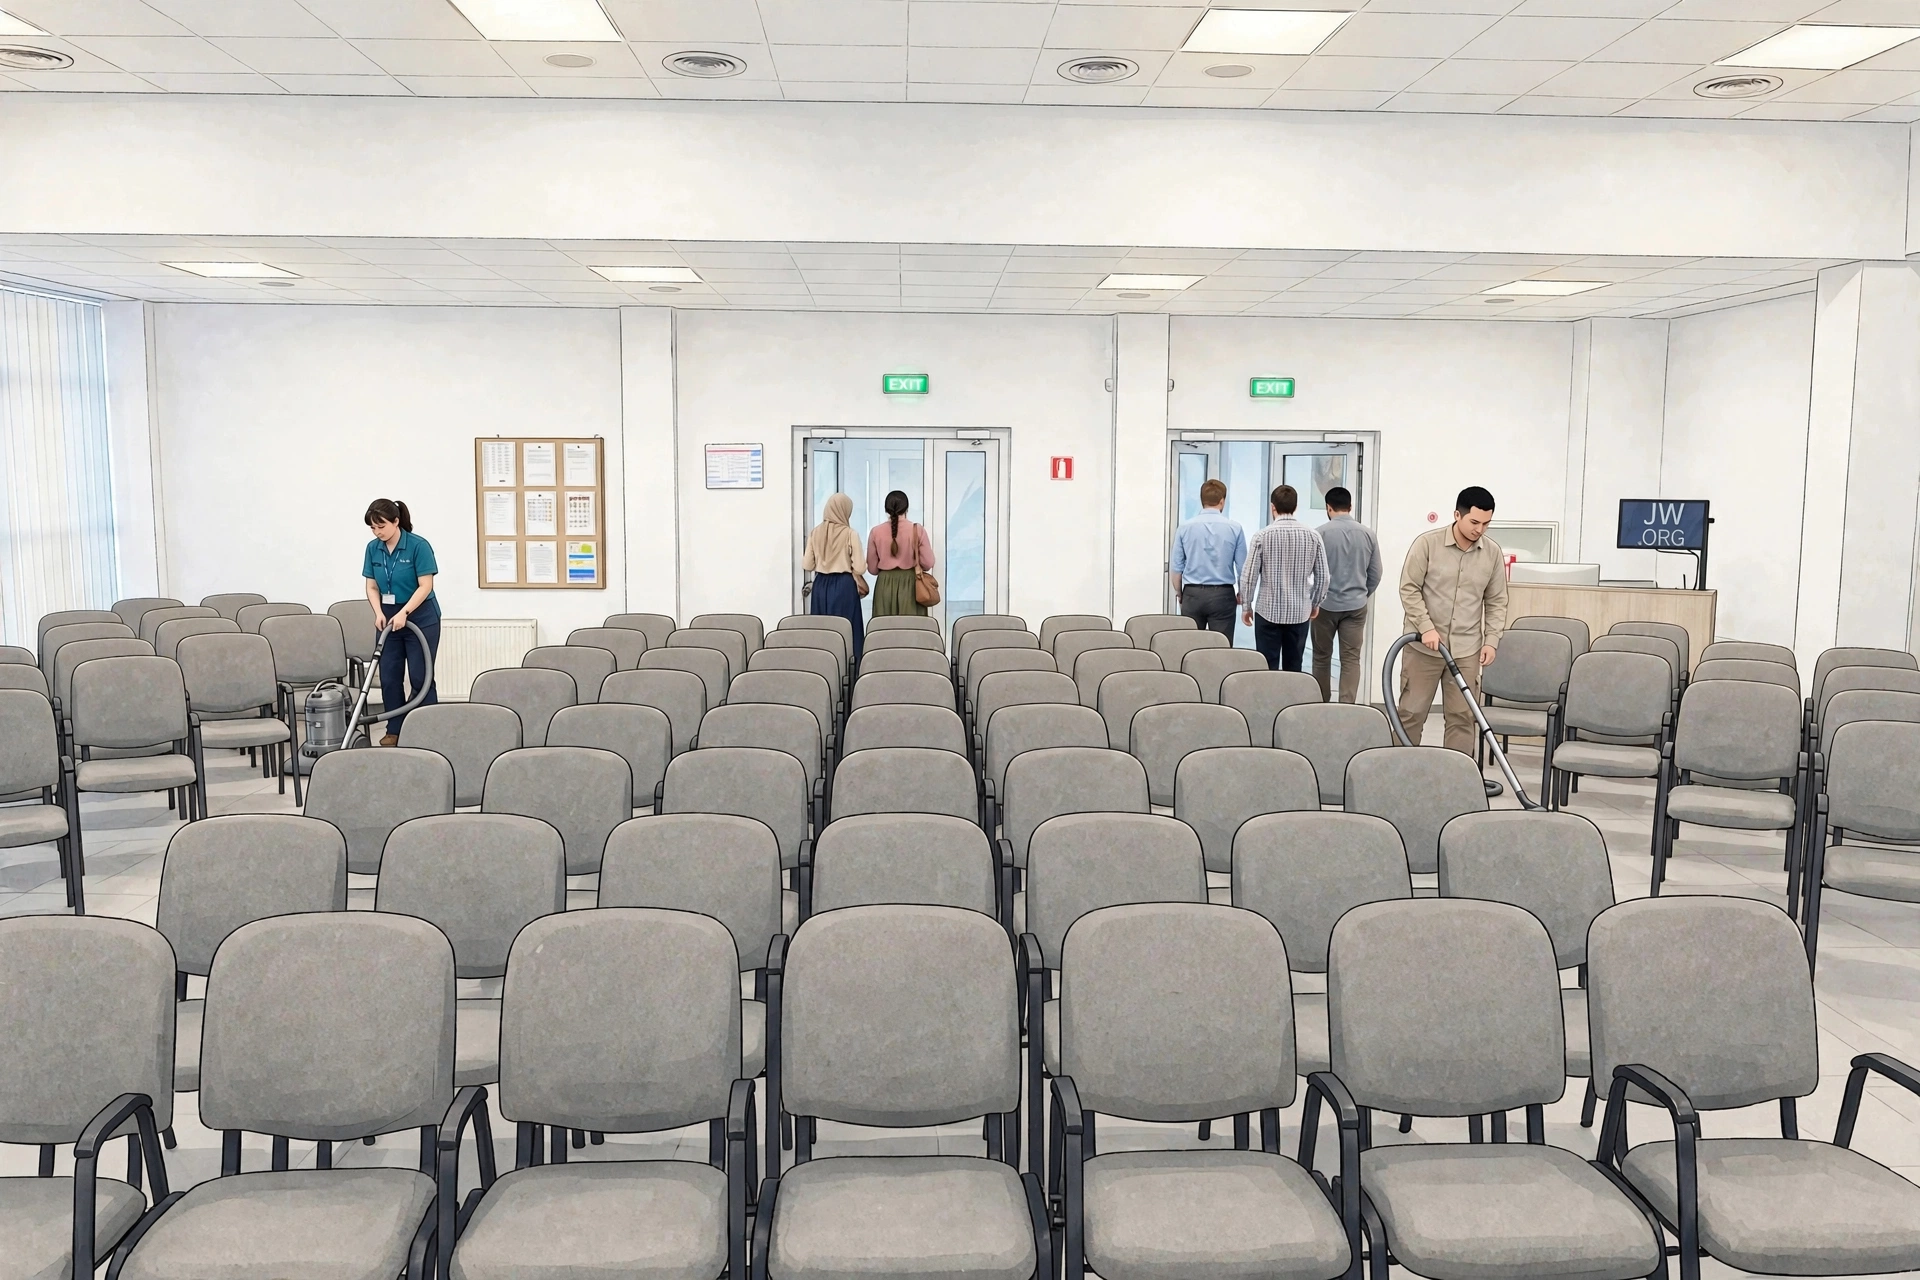
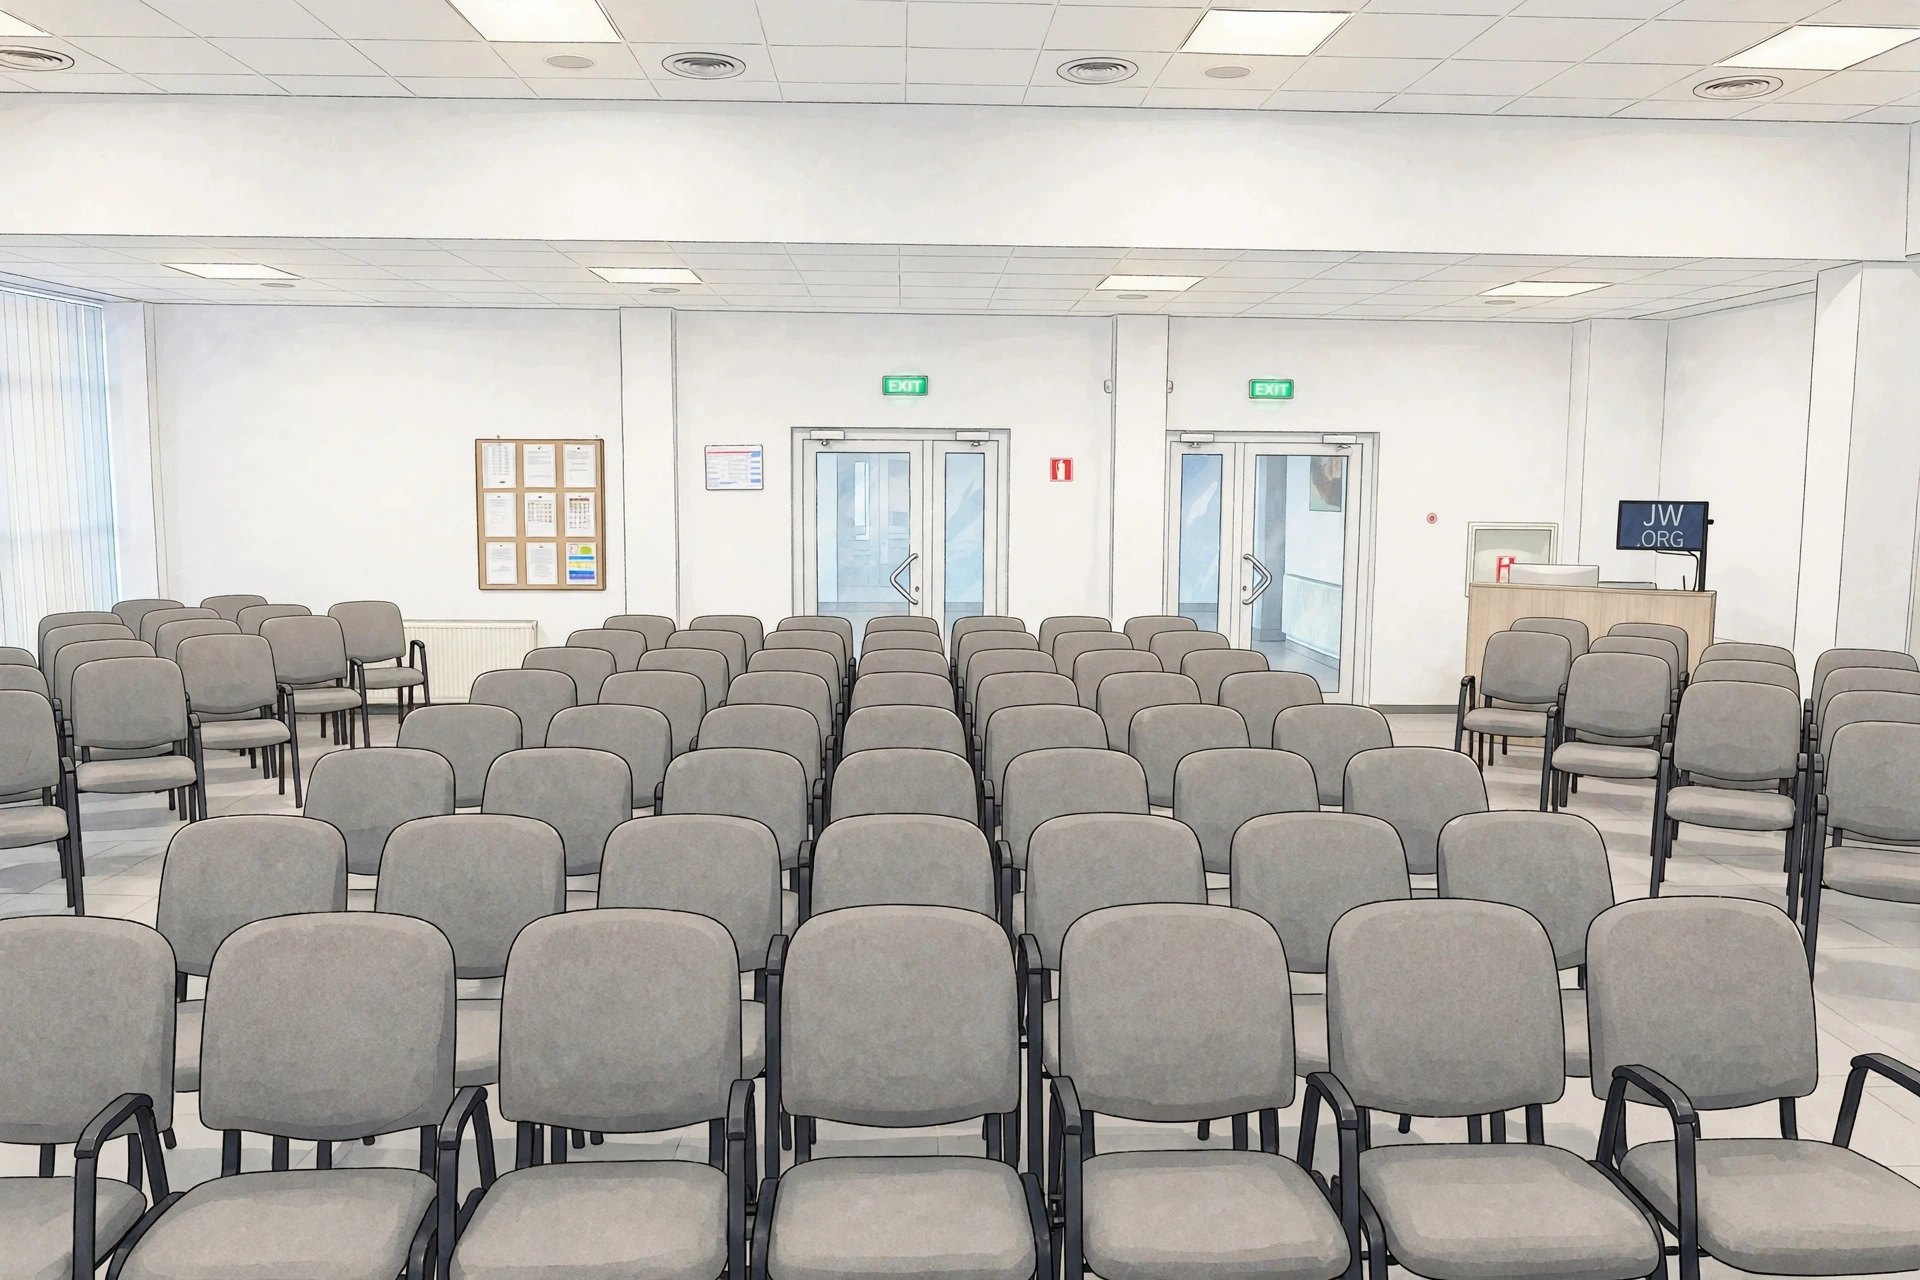
Add files via upload
poza

diff --git a/service-worker.js b/service-worker.js
@@ -1,7 +1,7 @@
 // StudiuMeu — Service Worker
 // Cache-first pentru fisierele aplicatiei = functionare completa offline.
 
-const CACHE_VERSION = 'studiumeu-v26';
+const CACHE_VERSION = 'studiumeu-v27';
 const CACHE_NAME = CACHE_VERSION;
 
 const APP_SHELL = [
